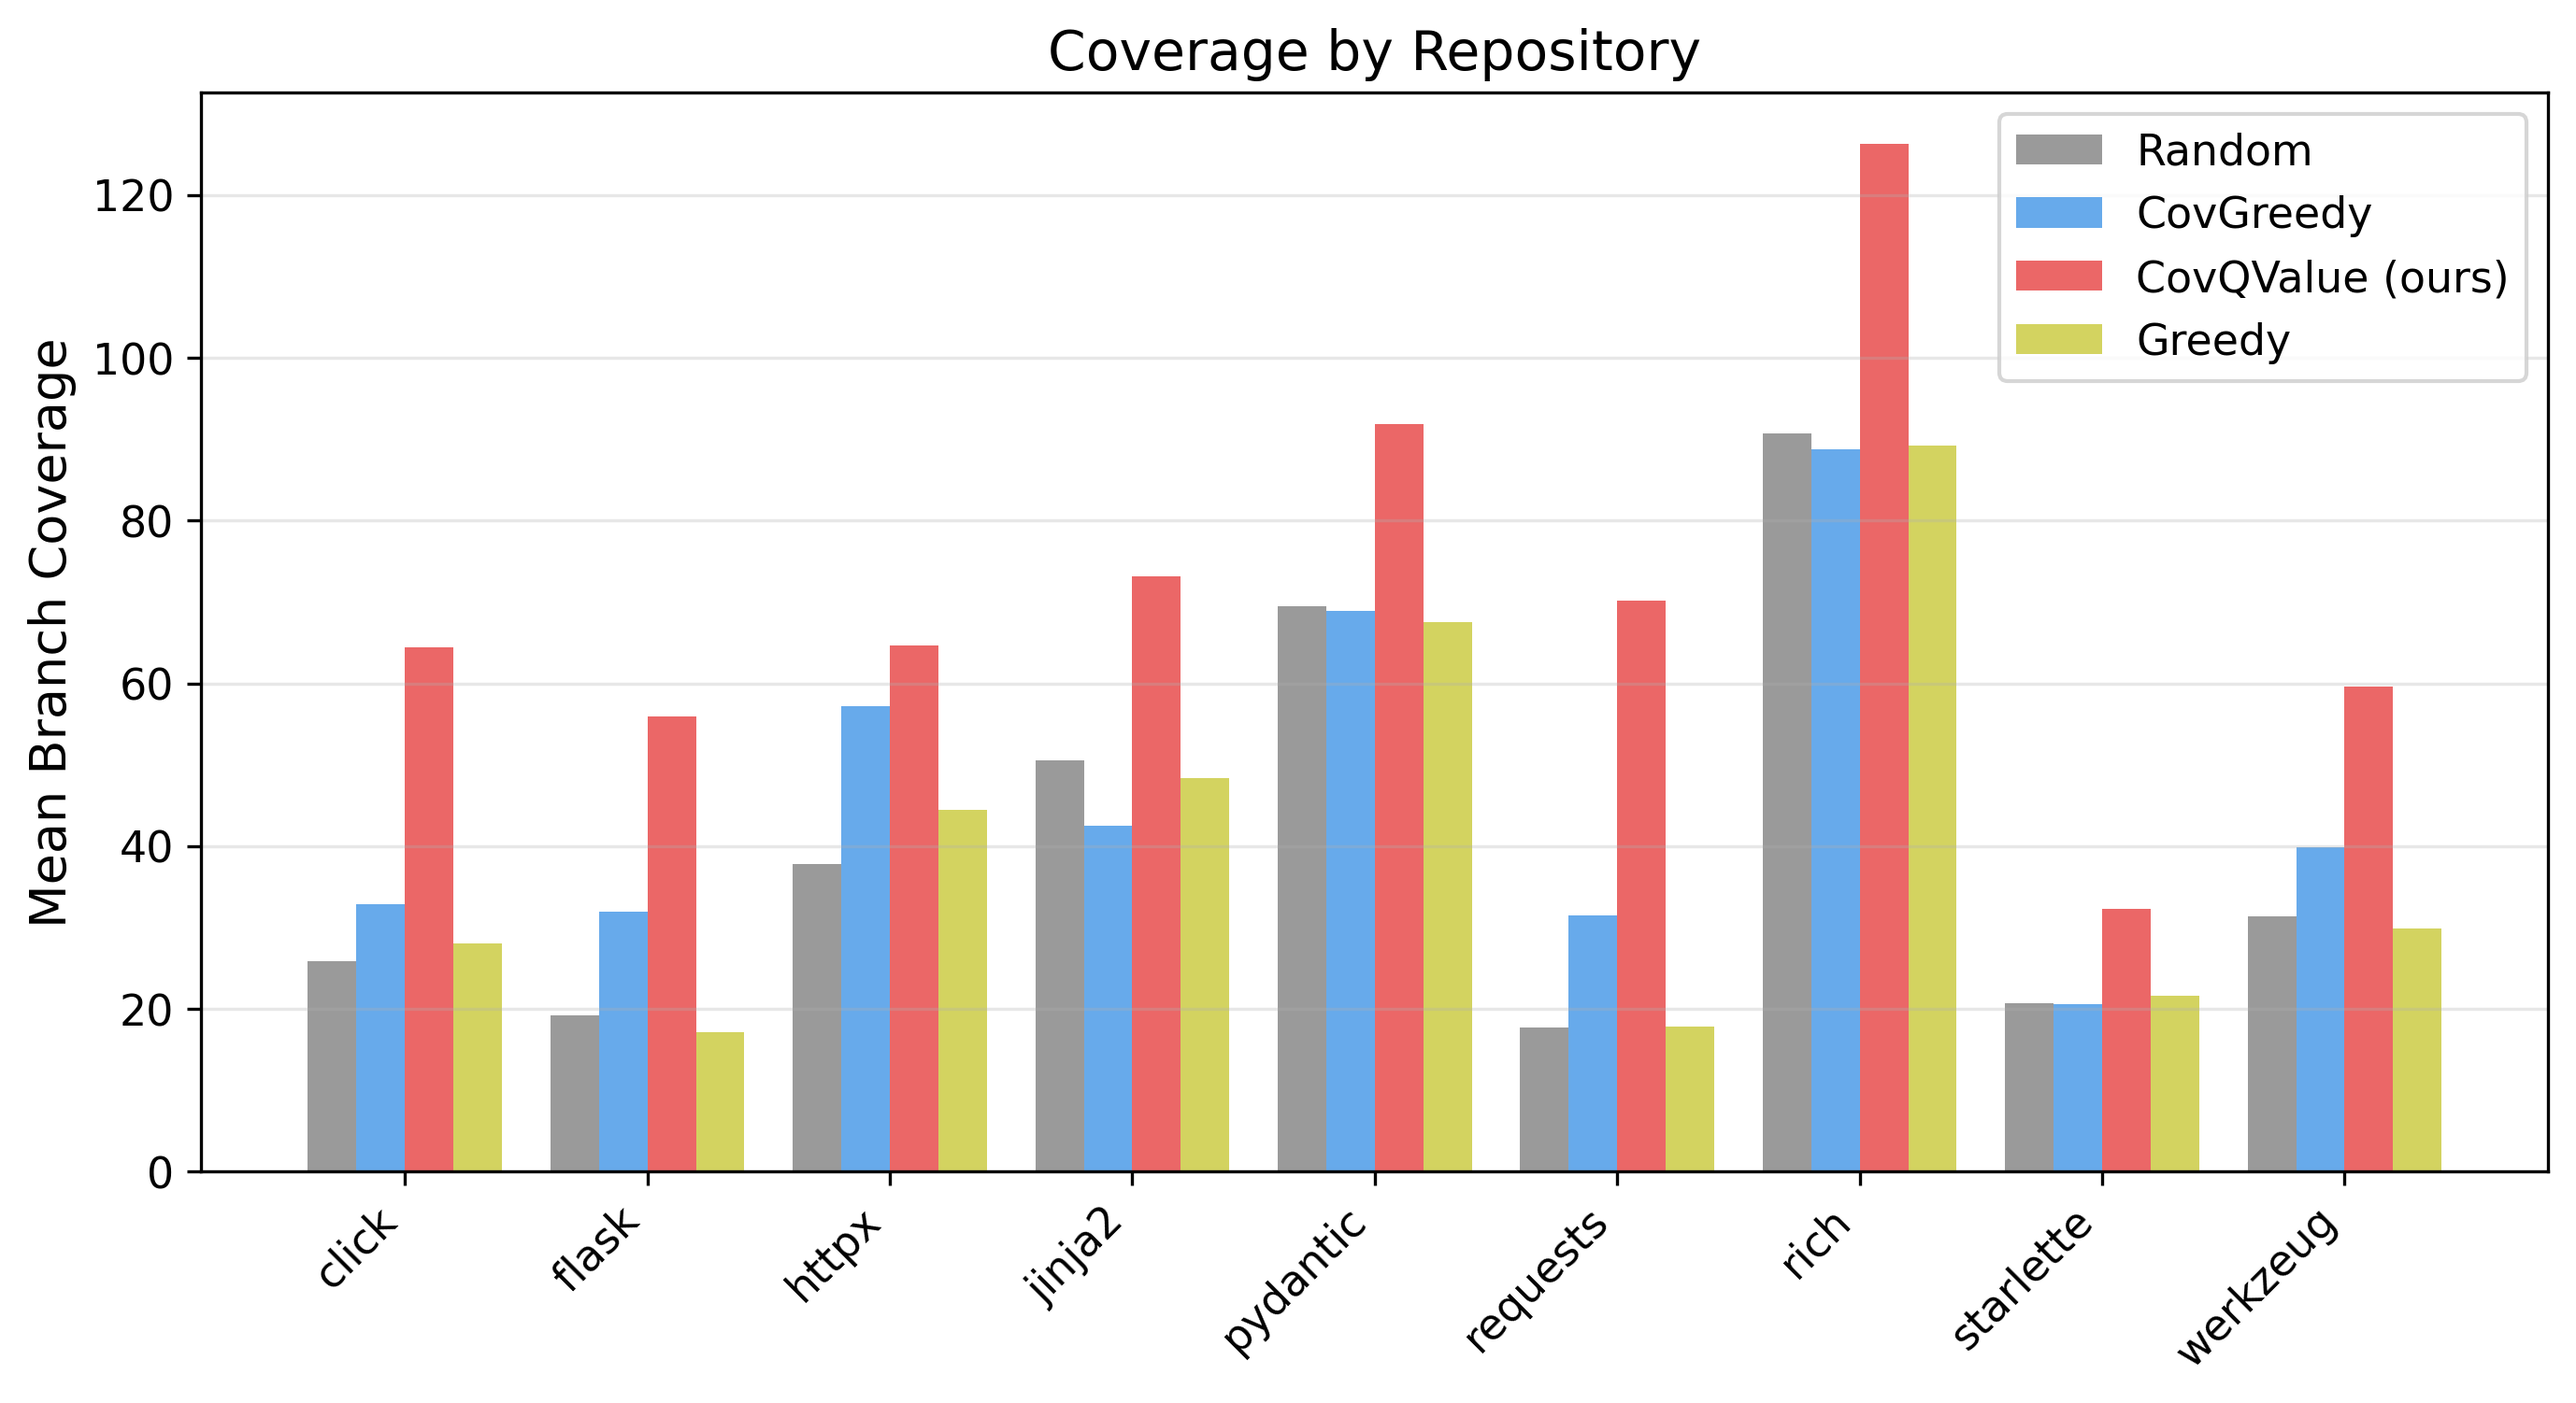
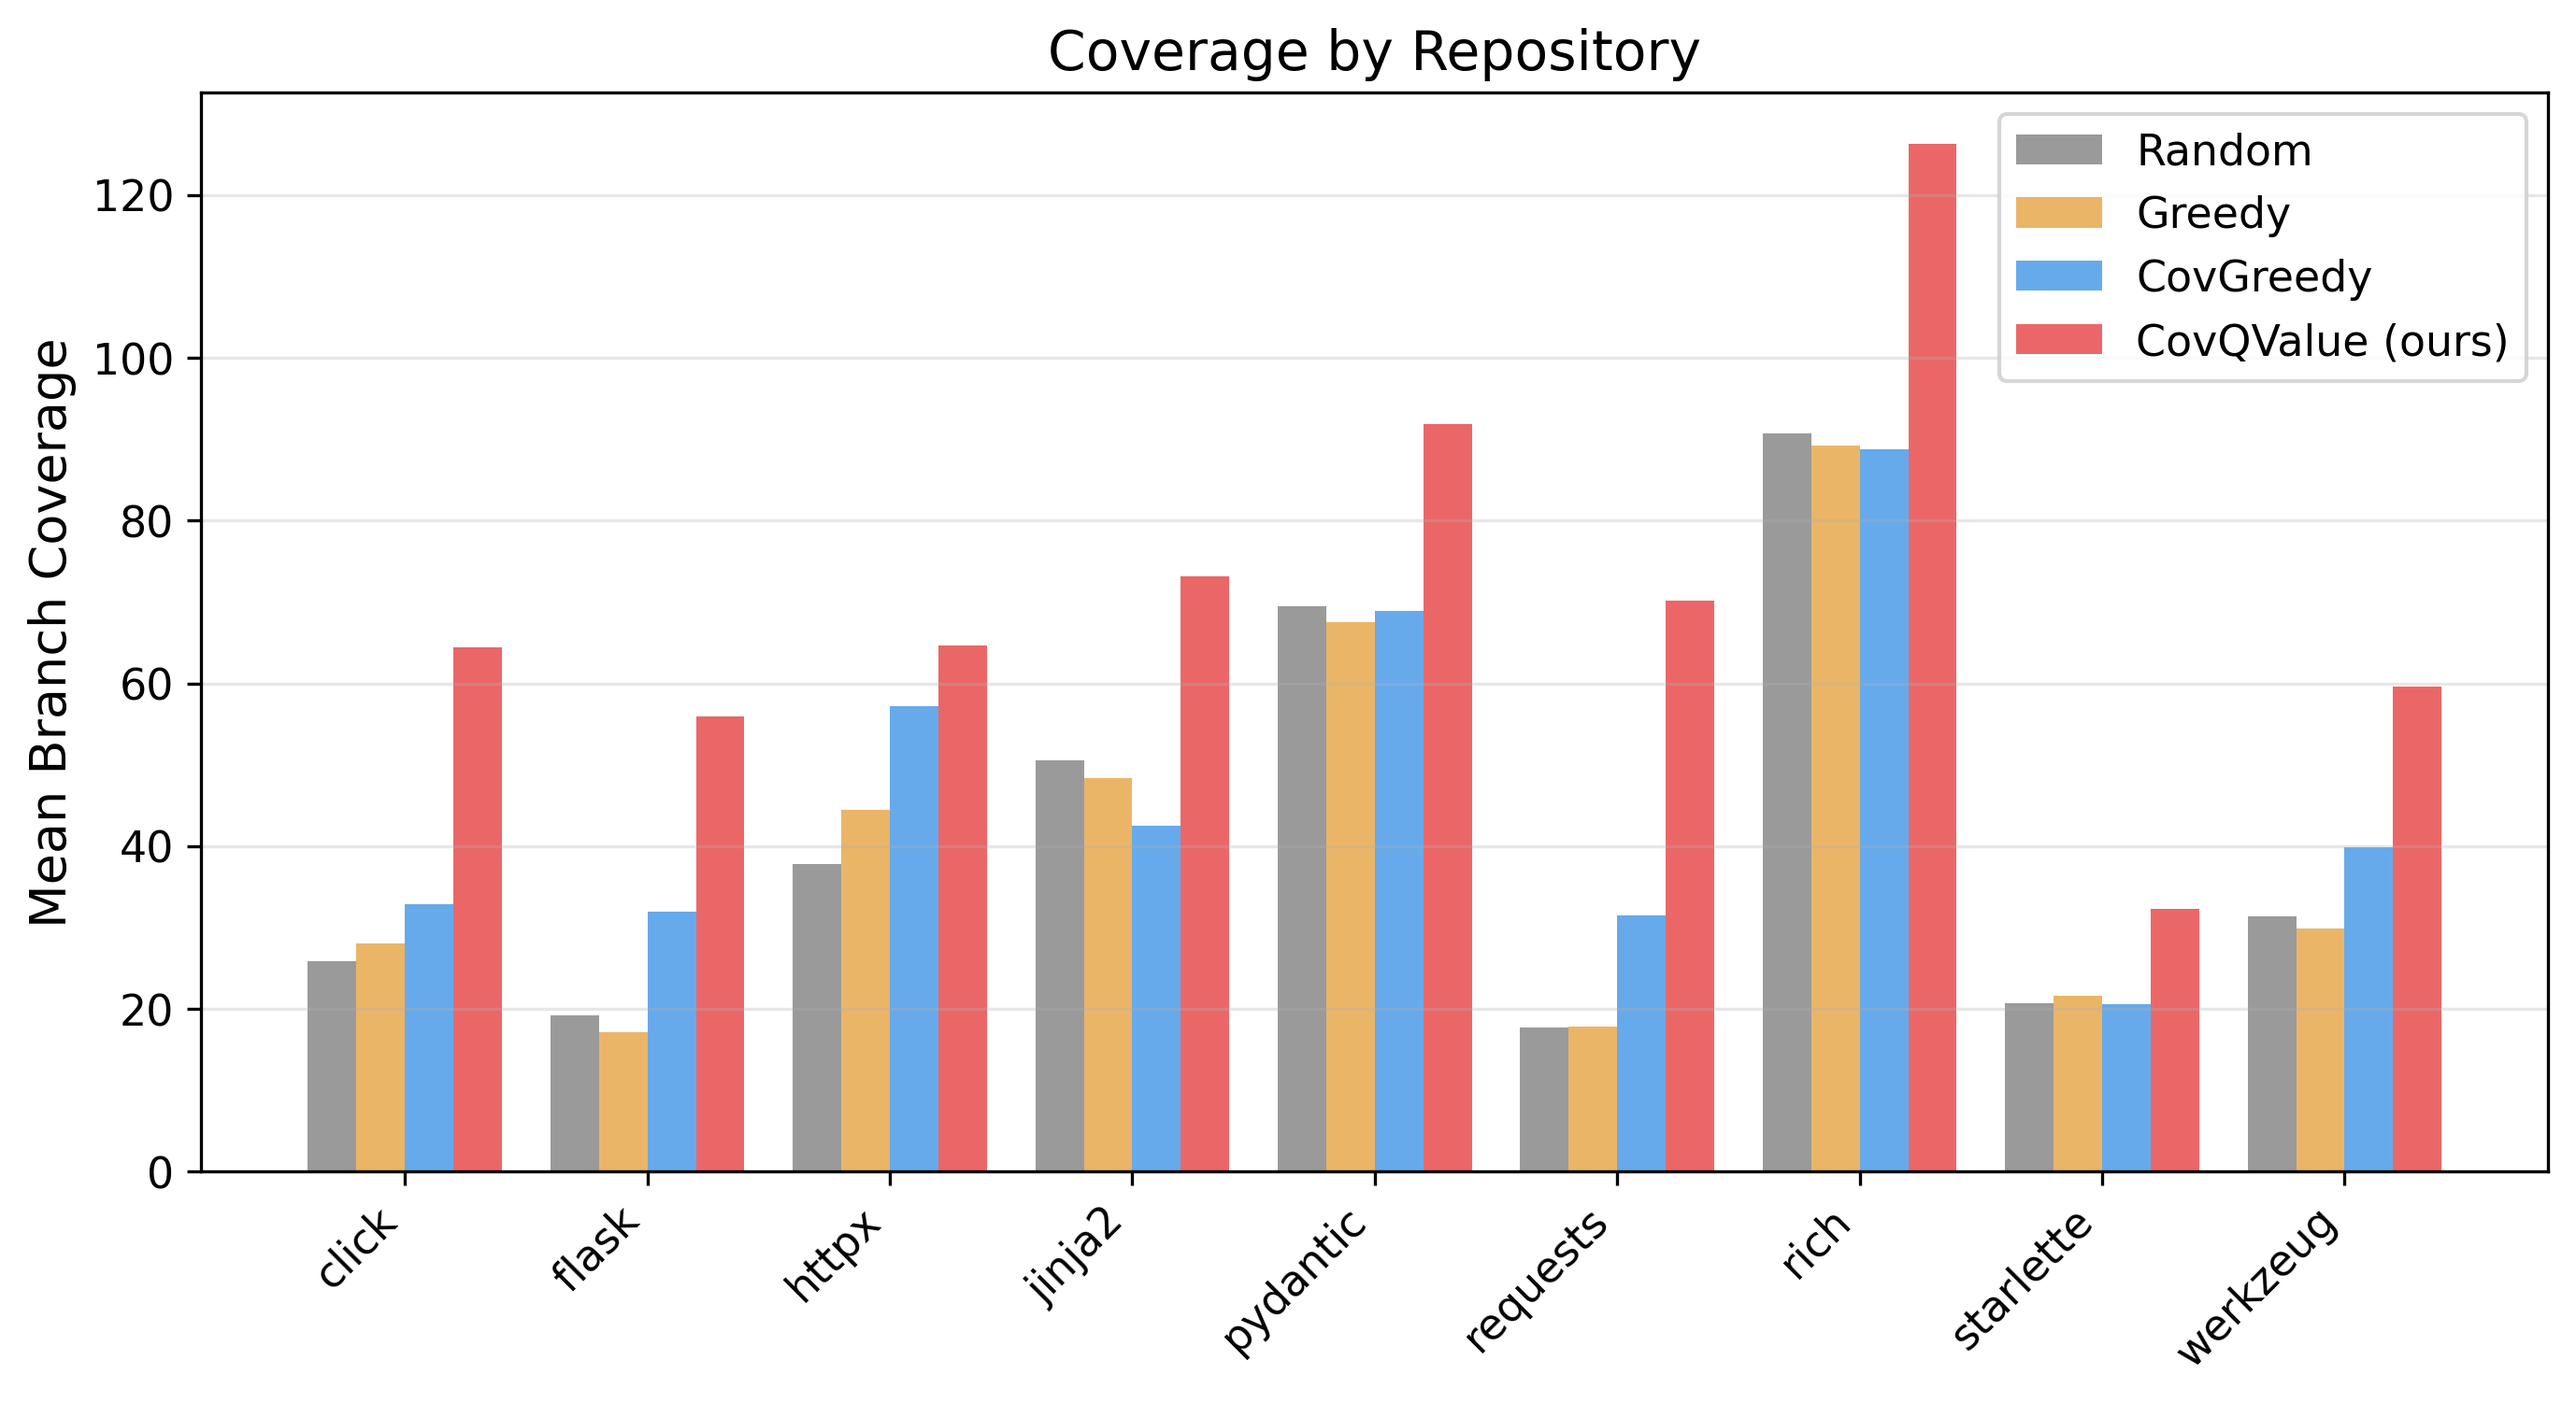
Fix greedy color in plots (yellow → orange for visibility)
Greedy overlapped with random; was invisible in yellow against gray.
Changed to orange (#E8A84C) — now clearly shows greedy ≈ random.

Changed region(s): [[0.1248, 0.0919, 0.9673, 0.8575]]

diff --git a/plots/plot_results.py b/plots/plot_results.py
@@ -29,10 +29,10 @@ matplotlib.rcParams.update({
 
 STRATEGY_COLORS = {
     "random": "#888888",
+    "greedy": "#E8A84C",
     "cov_greedy": "#4C9BE8",
     "cov_qvalue": "#E84C4C",
     "cov_planned": "#4CE88A",
-    "greedy": "#CCCC44",
 }
 
 STRATEGY_LABELS = {
